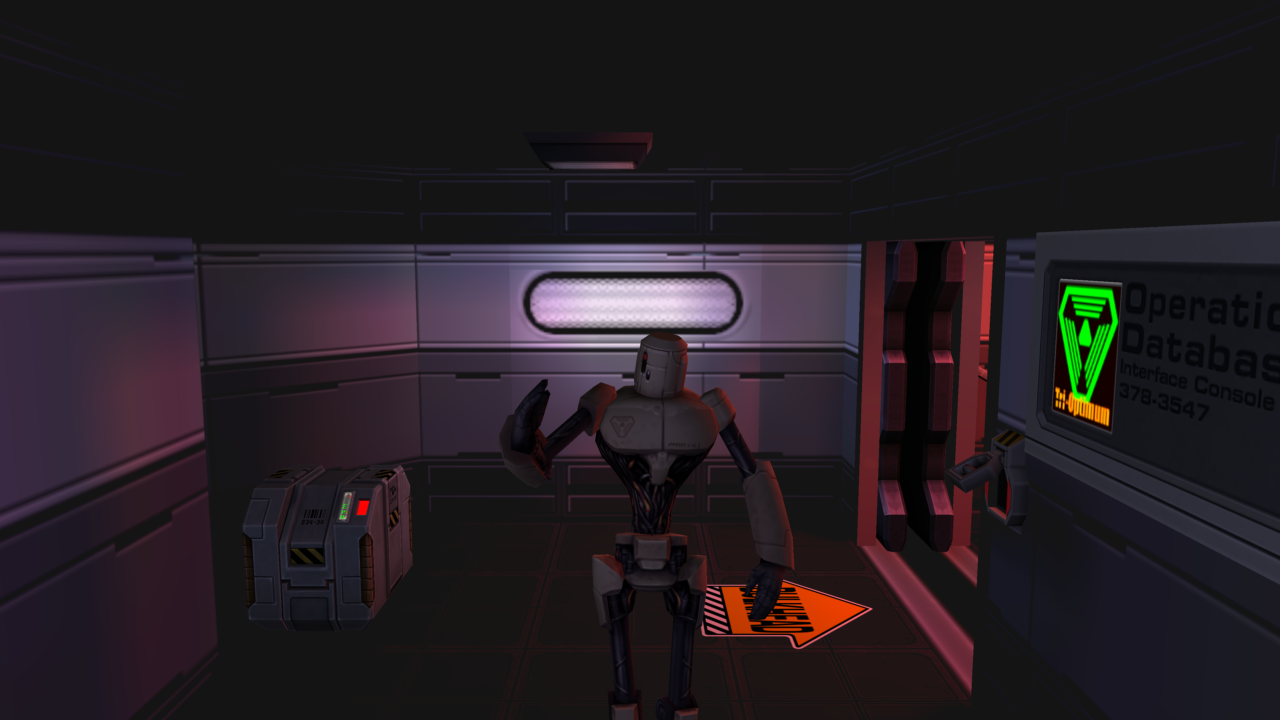
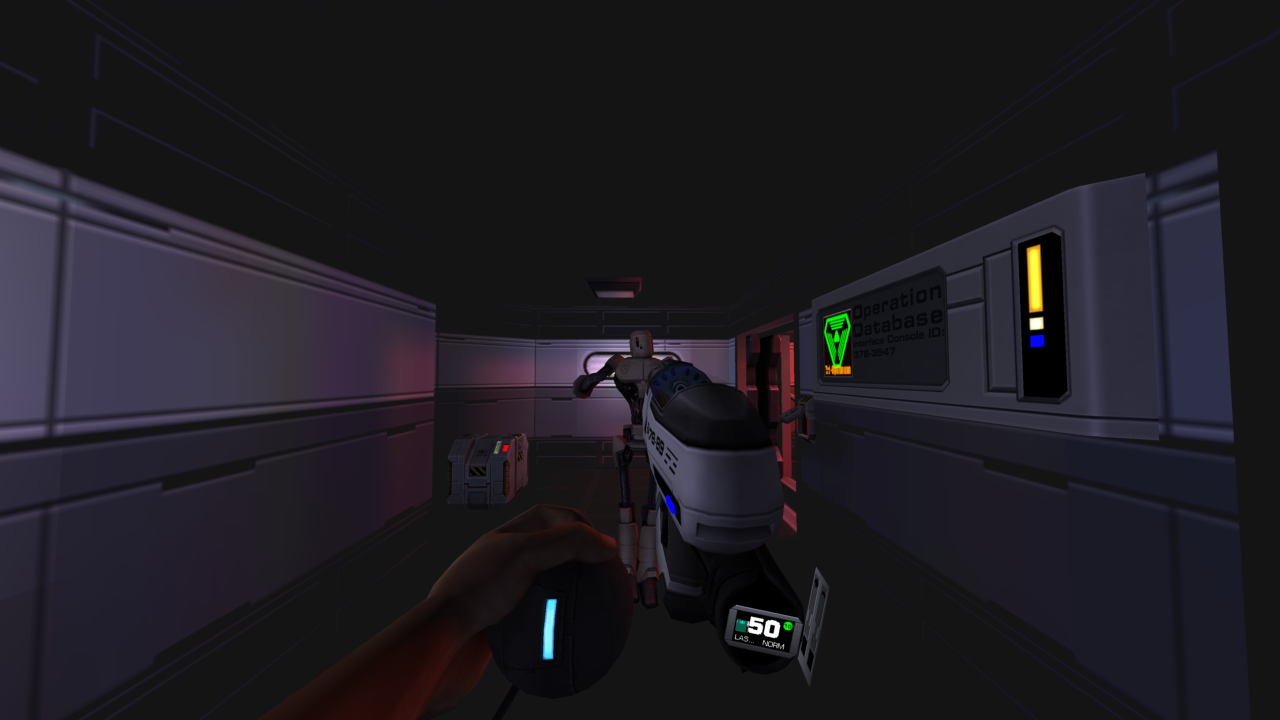
feat(hero-shots): first-person stills with VR hands and weapon loadouts (#1726)
Stacked on #1721.

README stills are now first-person VR views, each with a different
loadout:

| | |
|---|---|
|
![](https://raw.githubusercontent.com/tommy-xr/shock2quest/opus-hero-hand-stills/screenshots/hero/hydro1.png)
shotgun (support grip attached; its glove does not render - see below) |
![](https://raw.githubusercontent.com/tommy-xr/shock2quest/opus-hero-hand-stills/screenshots/hero/medsci1.png)
wrench + pistol |
|
![](https://raw.githubusercontent.com/tommy-xr/shock2quest/opus-hero-hand-stills/screenshots/hero/ops2.png)
psi amp + laser pistol |
![](https://raw.githubusercontent.com/tommy-xr/shock2quest/opus-hero-hand-stills/screenshots/hero/rec1.png)
single pistol |

SDK `src/vr-pose.ts`:
- `handPoseAimedAt` (pure, unit-tested): a hand at an eye-relative
offset aimed at a world point.
- `faceTarget`: turns the pawn with the stick and lets the tracked body
yaw settle. Body zones freeze their yaw while a hand is inside one, and
the default hand pose starts inside, so without this a squeeze "draws
from the shoulder" instead of holding.
- `aimHandsAt`, `attachSupportHand` (two-handed grip).

Vector math moves from `test/helpers/vr-hand.ts` to `src/vec.ts`
(re-exported) so scripts can share it.

`npm test` passes; `node scripts/hero-shots.mjs` renders all four.

Review fixes: hand rotation uses roll-free `lookQuat` (a shortest arc
from -Z rendered the laser pistol upside down; regression test added),
aim uses the subject's position after squaring up.
[…]

diff --git a/tools/shock2-sdk/src/vr-pose.ts b/tools/shock2-sdk/src/vr-pose.ts
@@ -1,0 +1,139 @@
+// Stage VR hands for captures: place each controller at an offset from the
+// eye (in the head's yaw frame) and aim it at a world point.
+import { type Game, lookQuat } from "./game.js";
+import type { Quat, Vec3 } from "./types.js";
+import {
+  add,
+  quatConjugate,
+  quatMultiply,
+  quatNormalize,
+  quatRotate,
+  sub,
+} from "./vec.js";
+
+export type Hand = "left" | "right";
+
+/**
+ * Pawn-local controller pose (the space `<hand>_hand.position/rotation` take)
+ * for a hand at `offset` from the eye - x right, y up, -z toward `target`,
+ * horizontally - whose -Z ray points at `target`.
+ */
+export function handPoseAimedAt(
+  pawnPosition: Vec3,
+  pawnRotation: Quat,
+  eyeHeight: number,
+  target: Vec3,
+  offset: Vec3,
+): { position: Vec3; rotation: Quat } {
+  const eye = add(pawnPosition, [0, eyeHeight, 0]);
+  const toward = sub(target, eye);
+  const yaw = Math.atan2(-toward[0], -toward[2]);
+  const yawRotation: Quat = [0, Math.sin(yaw / 2), 0, Math.cos(yaw / 2)];
+  const world = add(eye, quatRotate(yawRotation, offset));
+  // lookQuat, not a shortest arc from -Z: that picks an arbitrary roll (a
+  // gun aimed along +Z comes out upside down).
+  const worldRotation = lookQuat(sub(target, world));
+  const inversePawn = quatConjugate(pawnRotation);
+  return {
+    position: quatRotate(inversePawn, sub(world, pawnPosition)),
+    rotation: quatNormalize(quatMultiply(inversePawn, worldRotation)),
+  };
+}
+
+/** Signed yaw (radians) from the pawn's facing to `target`, positive = left. */
+export function pawnYawError(pawnPosition: Vec3, pawnRotation: Quat, target: Vec3): number {
+  const facing = quatRotate(pawnRotation, [0, 0, -1]);
+  const toward = sub(target, pawnPosition);
+  const error = Math.atan2(-toward[0], -toward[2]) - Math.atan2(-facing[0], -facing[2]);
+  return Math.atan2(Math.sin(error), Math.cos(error));
+}
+
+/**
+ * Turn the pawn to face `target` with the turn stick, the way a player does,
+ * so the body (and its shoulder/holster zones) faces it rather than only the
+ * head. Steps frames until within `toleranceDeg`.
+ */
+export async function turnPawnToward(game: Game, target: Vec3, toleranceDeg = 5): Promise<void> {
+  for (let frame = 0; frame < 600; frame++) {
+    const { player } = await game.info();
+    const error = pawnYawError(player.position, player.rotation, target);
+    if (Math.abs(error) <= (toleranceDeg * Math.PI) / 180) {
+      await game.input.set("left_hand.thumbstick", [0, 0]);
+      return;
+    }
+    // Stick x > 0 turns left (positive yaw); ease off near the target.
+    const push = Math.min(1, Math.max(0.2, Math.abs(error)));
+    await game.input.set("left_hand.thumbstick", [error > 0 ? push : -push, 0]);
+    await game.step({ frames: 1 });
+  }
+  await game.input.set("left_hand.thumbstick", [0, 0]);
+  throw new Error("pawn did not turn toward the target within 600 frames");
+}
+
+/**
+ * Square the player up to `target`: park both hands low in front, turn the
+ * pawn toward it, look at it, and let the tracked body yaw settle. Body zones
+ * (shoulder backpack, holsters) freeze their yaw while a hand is inside one,
+ * and the default hand pose starts inside, so posing without this leaves the
+ * zones facing the old direction - a later squeeze then "draws" from a
+ * shoulder instead of holding.
+ */
+export async function faceTarget(game: Game, target: Vec3): Promise<void> {
+  for (const hand of ["left", "right"] as const) {
+    await game.input.set(`${hand}_hand.position`, [hand === "left" ? -0.2 : 0.2, 0.3, -0.6]);
+    await game.input.set(`${hand}_hand.rotation`, [0, 0, 0, 1]);
+  }
+  await turnPawnToward(game, target);
+  await game.input.lookAtWorldPoint(target);
+  // Let the zones' eased (0.5 s time constant) yaw catch up with the head.
+  await game.step({ frames: 60 });
+}
+
+/** Turn the head to `target`, then aim each given hand at it from its offset. */
+export async function aimHandsAt(
+  game: Game,
+  target: Vec3,
+  hands: Partial<Record<Hand, Vec3>>,
+): Promise<void> {
+  await game.input.lookAtWorldPoint(target);
+  const { player } = await game.info();
+  for (const [hand, offset] of Object.entries(hands) as [Hand, Vec3][]) {
+    const pose = handPoseAimedAt(
+      player.position,
+      player.rotation,
+      player.camera_offset[1],
+      target,
+      offset,
+    );
+    await game.input.set(`${hand}_hand.position`, pose.position);
+    await game.input.set(`${hand}_hand.rotation`, pose.rotation);
+  }
+}
+
+/**
+ * Put the `support` hand on the two-handed grip of the gun `primary` holds,
+ * and squeeze to attach it. Steps a few frames.
+ */
+export async function attachSupportHand(game: Game, primary: Hand): Promise<void> {
+  const support: Hand = primary === "left" ? "right" : "left";
+  await game.step({ frames: 2 });
+  const { player } = await game.info();
+  const socket = player.hand_grips.find((g) => g.hand === primary)?.support;
+  if (!socket) throw new Error(`the ${primary} hand holds nothing with a support grip`);
+  const p = socket.controller_position;
+  const q = socket.controller_rotation;
+  const inversePawn = quatConjugate(player.rotation);
+  await game.input.set(
+    `${support}_hand.position`,
+    quatRotate(inversePawn, sub([p.x, p.y, p.z], player.position)),
+  );
+  await game.input.set(
+    `${support}_hand.rotation`,
+    quatMultiply(inversePawn, [q.v.x, q.v.y, q.v.z, q.s]),
+  );
+  await game.input.set(`${support}_hand.squeeze`, 1);
+  await game.step({ frames: 10 });
+  const attached = (await game.info()).player.hand_grips.find((g) => g.hand === primary)
+    ?.support?.attached;
+  if (!attached) throw new Error(`the ${support} hand did not attach to the support grip`);
+}

diff --git a/tools/shock2-sdk/test/helpers/vr-hand.ts b/tools/shock2-sdk/test/helpers/vr-hand.ts
@@ -1,68 +1,11 @@
 import assert from "node:assert/strict";
 import type { GameServer } from "../../src/index.js";
 import type { UiPanelPose, Vec3 } from "../../src/types.js";
+import { add, dot, normalize, quatConjugate, quatFromTo, quatMultiply, quatNormalize, quatRotate, scale, sub } from "../../src/vec.js";
 
-export type Quat = [number, number, number, number];
-export type Hand = "left" | "right";
-
-export const add = (a: Vec3, b: Vec3): Vec3 => [
-  a[0] + b[0],
-  a[1] + b[1],
-  a[2] + b[2],
-];
-export const sub = (a: Vec3, b: Vec3): Vec3 => [
-  a[0] - b[0],
-  a[1] - b[1],
-  a[2] - b[2],
-];
-export const scale = (v: Vec3, amount: number): Vec3 => [
-  v[0] * amount,
-  v[1] * amount,
-  v[2] * amount,
-];
-export const dot = (a: Vec3, b: Vec3): number =>
-  a[0] * b[0] + a[1] * b[1] + a[2] * b[2];
-export const cross = (a: Vec3, b: Vec3): Vec3 => [
-  a[1] * b[2] - a[2] * b[1],
-  a[2] * b[0] - a[0] * b[2],
-  a[0] * b[1] - a[1] * b[0],
-];
-export const normalize = (v: Vec3): Vec3 => scale(v, 1 / Math.sqrt(dot(v, v)));
-
-export const quatConjugate = ([x, y, z, w]: Quat): Quat => [-x, -y, -z, w];
-export const quatMultiply = (
-  [ax, ay, az, aw]: Quat,
-  [bx, by, bz, bw]: Quat,
-): Quat => [
-  aw * bx + ax * bw + ay * bz - az * by,
-  aw * by - ax * bz + ay * bw + az * bx,
-  aw * bz + ax * by - ay * bx + az * bw,
-  aw * bw - ax * bx - ay * by - az * bz,
-];
-export const quatNormalize = (q: Quat): Quat => {
-  const length = Math.sqrt(q.reduce((sum, value) => sum + value * value, 0));
-  return q.map((value) => value / length) as Quat;
-};
-
-export const quatRotate = (q: Quat, v: Vec3): Vec3 =>
-  quatMultiply(quatMultiply(q, [...v, 0]), quatConjugate(q)).slice(
-    0,
-    3,
-  ) as Vec3;
-
-export function quatFromTo(from: Vec3, to: Vec3): Quat {
-  const a = normalize(from);
-  const b = normalize(to);
-  const d = dot(a, b);
-  if (d < -0.999999) {
-    const axis =
-      Math.abs(a[0]) < 0.9
-        ? normalize(cross(a, [1, 0, 0]))
-        : normalize(cross(a, [0, 1, 0]));
-    return [axis[0], axis[1], axis[2], 0];
-  }
-  return quatNormalize([...cross(a, b), 1 + d]);
-}
+export * from "../../src/vec.js";
+import type { Hand } from "../../src/vr-pose.js";
+export type { Hand };
 
 /**
  * Aim a controller at a point on the VR cyber-interface panel's canvas.

diff --git a/tools/shock2-sdk/src/vec.ts b/tools/shock2-sdk/src/vec.ts
@@ -1,0 +1,63 @@
+// Vector/quaternion math shared by VR posing (quaternions are [x, y, z, w]).
+import type { Quat, Vec3 } from "./types.js";
+
+export type { Quat };
+
+export const add = (a: Vec3, b: Vec3): Vec3 => [
+  a[0] + b[0],
+  a[1] + b[1],
+  a[2] + b[2],
+];
+export const sub = (a: Vec3, b: Vec3): Vec3 => [
+  a[0] - b[0],
+  a[1] - b[1],
+  a[2] - b[2],
+];
+export const scale = (v: Vec3, amount: number): Vec3 => [
+  v[0] * amount,
+  v[1] * amount,
+  v[2] * amount,
+];
+export const dot = (a: Vec3, b: Vec3): number =>
+  a[0] * b[0] + a[1] * b[1] + a[2] * b[2];
+export const cross = (a: Vec3, b: Vec3): Vec3 => [
+  a[1] * b[2] - a[2] * b[1],
+  a[2] * b[0] - a[0] * b[2],
+  a[0] * b[1] - a[1] * b[0],
+];
+export const normalize = (v: Vec3): Vec3 => scale(v, 1 / Math.sqrt(dot(v, v)));
+
+export const quatConjugate = ([x, y, z, w]: Quat): Quat => [-x, -y, -z, w];
+export const quatMultiply = (
+  [ax, ay, az, aw]: Quat,
+  [bx, by, bz, bw]: Quat,
+): Quat => [
+  aw * bx + ax * bw + ay * bz - az * by,
+  aw * by - ax * bz + ay * bw + az * bx,
+  aw * bz + ax * by - ay * bx + az * bw,
+  aw * bw - ax * bx - ay * by - az * bz,
+];
+export const quatNormalize = (q: Quat): Quat => {
+  const length = Math.sqrt(q.reduce((sum, value) => sum + value * value, 0));
+  return q.map((value) => value / length) as Quat;
+};
+
+export const quatRotate = (q: Quat, v: Vec3): Vec3 =>
+  quatMultiply(quatMultiply(q, [...v, 0]), quatConjugate(q)).slice(
+    0,
+    3,
+  ) as Vec3;
+
+export function quatFromTo(from: Vec3, to: Vec3): Quat {
+  const a = normalize(from);
+  const b = normalize(to);
+  const d = dot(a, b);
+  if (d < -0.999999) {
+    const axis =
+      Math.abs(a[0]) < 0.9
+        ? normalize(cross(a, [1, 0, 0]))
+        : normalize(cross(a, [0, 1, 0]));
+    return [axis[0], axis[1], axis[2], 0];
+  }
+  return quatNormalize([...cross(a, b), 1 + d]);
+}

diff --git a/tools/shock2-sdk/test/vr-pose.test.ts b/tools/shock2-sdk/test/vr-pose.test.ts
@@ -1,0 +1,37 @@
+import assert from "node:assert/strict";
+import { test } from "node:test";
+import { handPoseAimedAt } from "../src/vr-pose.js";
+import type { Quat, Vec3 } from "../src/types.js";
+import { add, dot, normalize, quatRotate, sub } from "../src/vec.js";
+
+// A pawn yawed 90 degrees, so pawn-local and world differ.
+const pawn: Vec3 = [10, 0, 5];
+const pawnRotation: Quat = [0, Math.SQRT1_2, 0, Math.SQRT1_2];
+const eyeHeight = 1.5;
+
+test("the posed hand's -Z ray hits the target from its offset", () => {
+  const target: Vec3 = [4, 1, 5];
+  const pose = handPoseAimedAt(pawn, pawnRotation, eyeHeight, target, [0.15, -0.2, -0.4]);
+  const world = add(pawn, quatRotate(pawnRotation, pose.position));
+  const ray = quatRotate(pawnRotation, quatRotate(pose.rotation, [0, 0, -1]));
+  assert.ok(dot(ray, normalize(sub(target, world))) > 0.9999);
+});
+
+test("offsets are in the head's yaw frame toward the target", () => {
+  // Target straight down -X from the eye: "forward" is -X, "right" is -Z.
+  const target: Vec3 = [0, eyeHeight, 5];
+  const pose = handPoseAimedAt(pawn, pawnRotation, eyeHeight, target, [0.2, 0, -0.5]);
+  const world = add(pawn, quatRotate(pawnRotation, pose.position));
+  const fromEye = sub(world, add(pawn, [0, eyeHeight, 0]));
+  assert.ok(Math.abs(fromEye[0] + 0.5) < 1e-6, `forward ${fromEye}`);
+  assert.ok(Math.abs(fromEye[2] + 0.2) < 1e-6, `right ${fromEye}`);
+});
+
+test("the posed hand stays upright aiming along world +Z", () => {
+  // Shortest-arc rotations from -Z flip ~180 degrees of roll here.
+  const unturned: Quat = [0, 0, 0, 1];
+  const target: Vec3 = [10, 1.2, 12];
+  const pose = handPoseAimedAt(pawn, unturned, eyeHeight, target, [0.1, -0.2, -0.5]);
+  const up = quatRotate(pose.rotation, [0, 1, 0]);
+  assert.ok(up[1] > 0.9, `hand up ${up}`);
+});

diff --git a/tools/shock2-sdk/src/index.ts b/tools/shock2-sdk/src/index.ts
@@ -19,3 +19,4 @@ export { findRepoRoot, GameServer, type LaunchOptions } from "./server.js";
 export * from "./anim-metrics.js";
 export * from "./ai-reachability.js";
 export type * from "./types.js";
+export * from "./vr-pose.js";

diff --git a/README.md b/README.md
@@ -16,8 +16,8 @@ Once installed, copy `sshock2.kpf` and the `mods/` folder from it - see [DEVELOP
 
 ## Screenshots
 
-<img src="screenshots/hero/hydro1.png" alt="Hydroponics: a hybrid beside an annelid egg" width="400"/> <img src="screenshots/hero/medsci1.png" alt="Med/Sci: a hybrid before a XERXES terminal" width="400"/>
-<img src="screenshots/hero/ops2.png" alt="Operations: a protocol droid" width="400"/> <img src="screenshots/hero/rec1.png" alt="Recreation: a monkey in medical analysis" width="400"/>
+<img src="screenshots/hero/hydro1.png" alt="Hydroponics: shotgun on a hybrid" width="400"/> <img src="screenshots/hero/medsci1.png" alt="Med/Sci: wrench and pistol against a hybrid" width="400"/>
+<img src="screenshots/hero/ops2.png" alt="Operations: psi amp and laser pistol against a protocol droid" width="400"/> <img src="screenshots/hero/rec1.png" alt="Recreation: pistol on a monkey" width="400"/>
 
 Regenerate with `node scripts/hero-shots.mjs` from `tools/shock2-sdk` (after `npm run build`).
 
